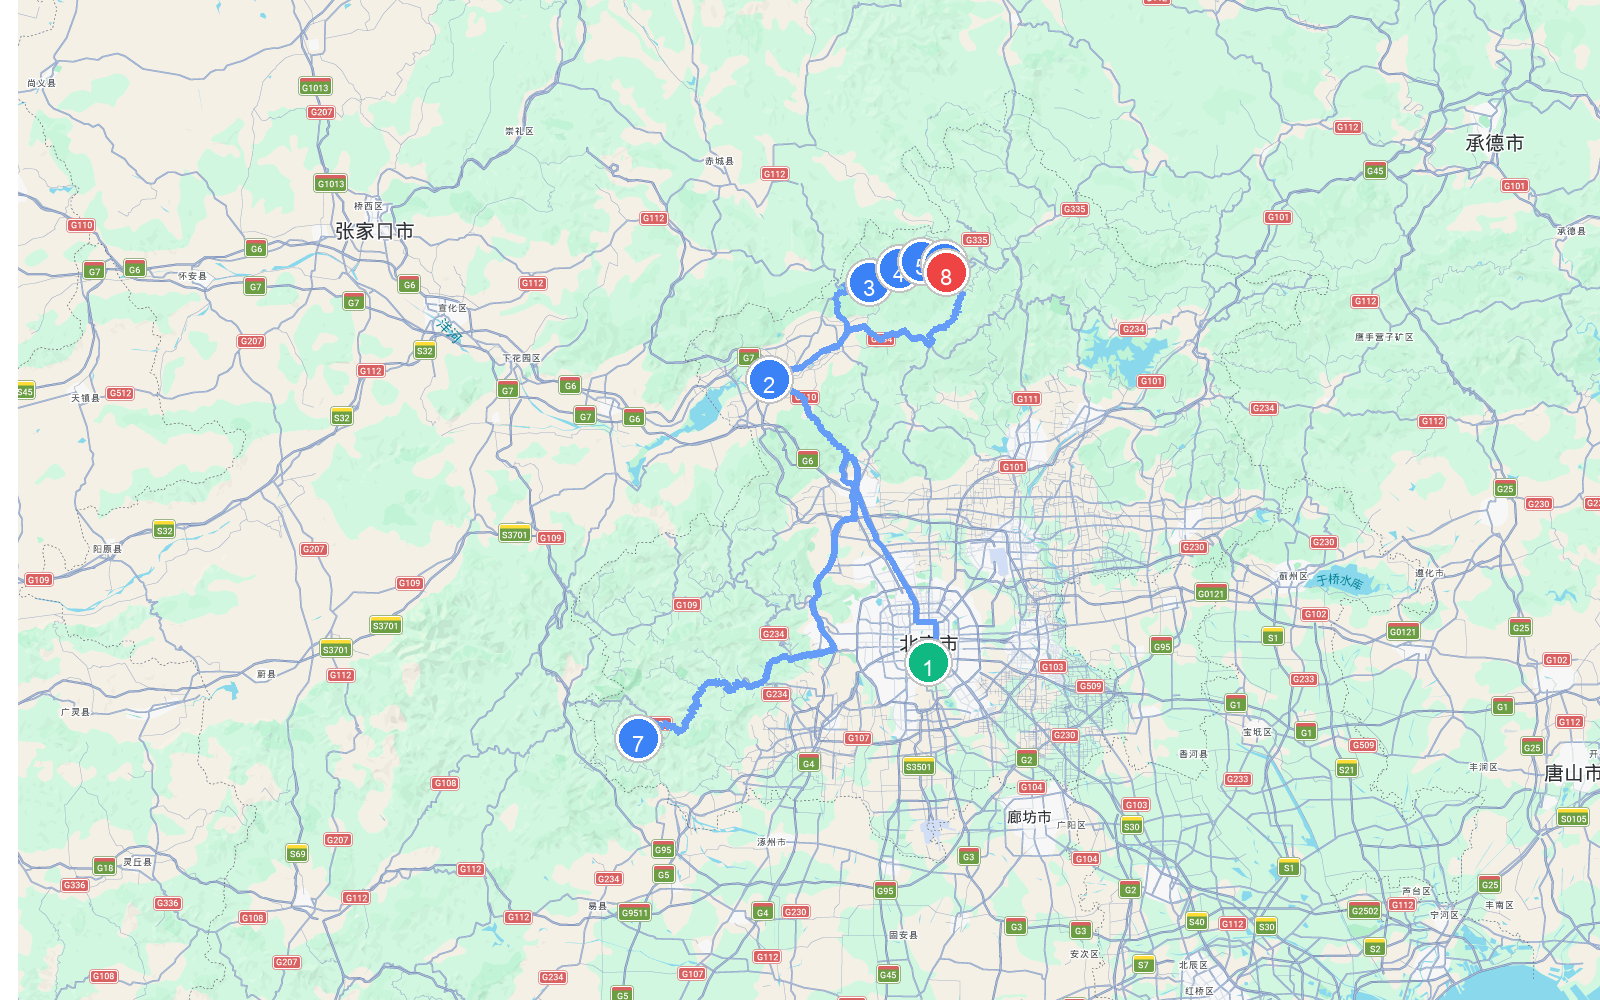
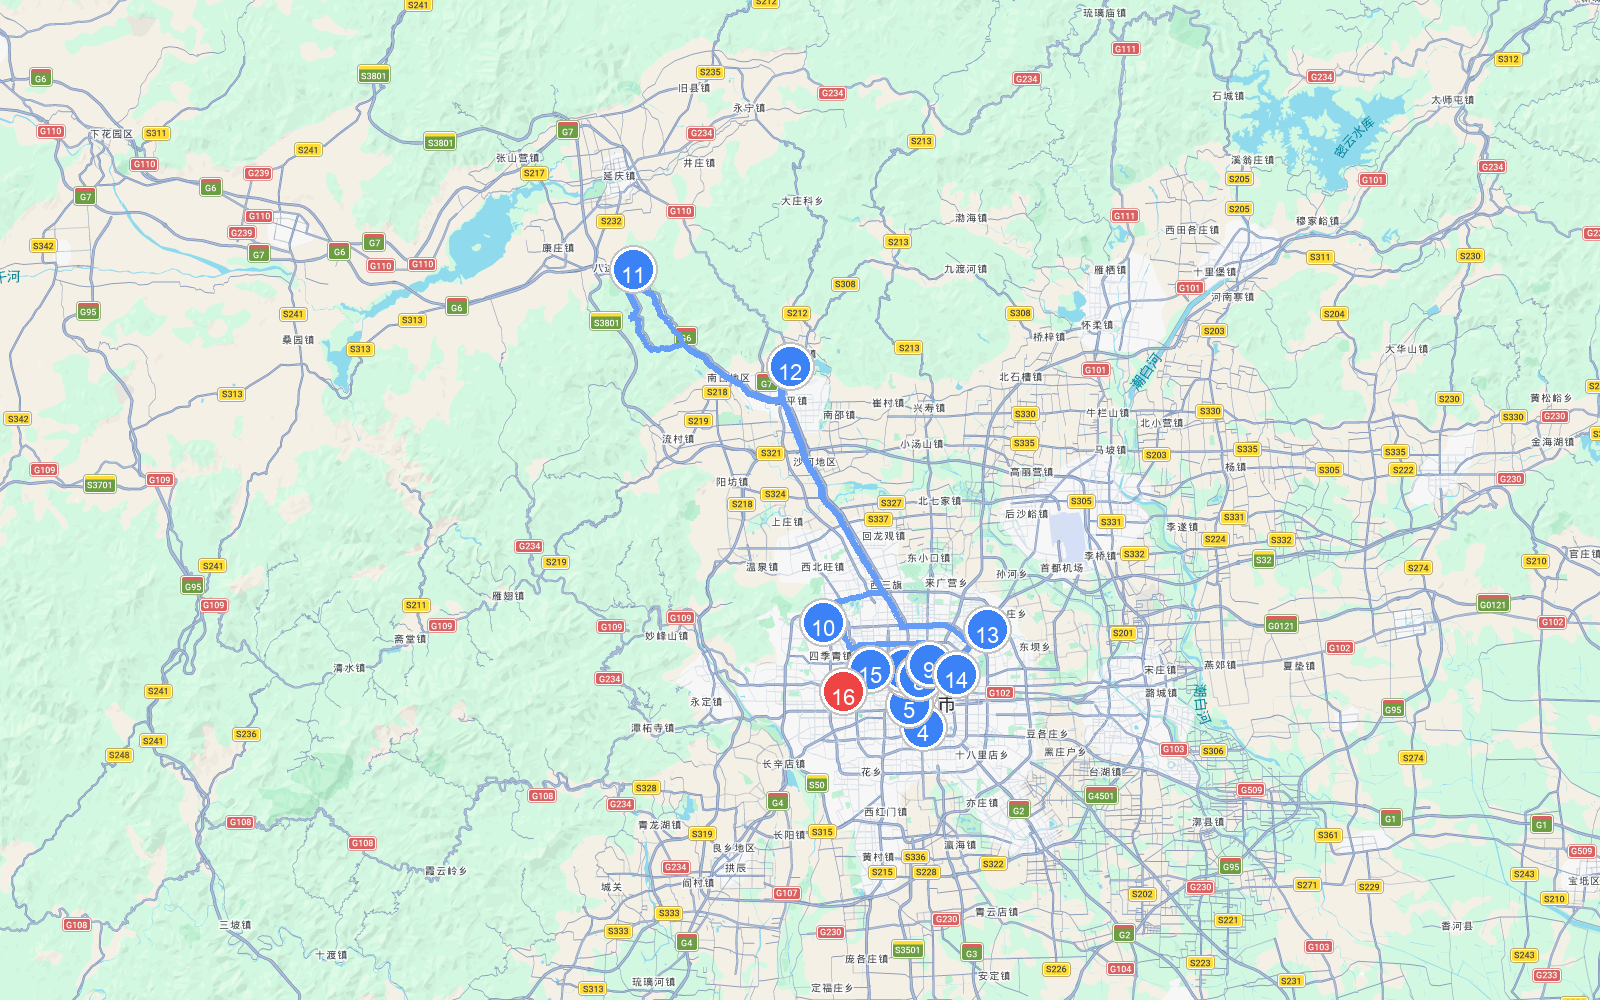
docs(beijing): standardize and generate maps/tables for Beijing 5d4n and deep itineraries

diff --git a/docs/01_北京市.md b/docs/01_北京市.md
@@ -7,20 +7,58 @@
 
 #### 北京5天4夜游路线
 
-* **预算**：人均花费1300元左右。  
-* **路线**：  
-* **特点**：这是一条专为初次游玩京城的旅客规划的经典打卡路线。您将亲历庄严的天安门广场升旗仪式，参观世界规模最大、保存最完好的木结构宫殿故宫博物院；漫步于历史悠久的什刹海和极具老北京胡同风情的南锣鼓巷，享受市井慢生活；登临八达岭长城眺望群山，并在清华/北大校门口拍照留念，最后游览天坛祈年殿与颐和园皇家园林，堪称世纪经典的京城首选之旅。
+* **自驾线路**：天安门广场 → 故宫博物院 → 南锣鼓巷 → 雍和宫 → 天坛公园 → 颐和园 → 八达岭长城 → 明十三陵 → 国家体育场 → 三里屯太古里
+* **路线路段距离与地图**
+  | 起点 | 终点 | 距离 |
+  | :--- | :--- | :--- |
+  | (1) 天安门广场 | (2) 故宫博物院 | 4.3 公里 |
+  | (2) 故宫博物院 | (3) 南锣鼓巷 | 3.0 公里 |
+  | (3) 南锣鼓巷 | (4) 雍和宫 | 4.3 公里 |
+  | (4) 雍和宫 | (5) 天坛公园 | 10.7 公里 |
+  | (5) 天坛公园 | (6) 颐和园 | 28.2 公里 |
+  | (6) 颐和园 | (7) 八达岭长城 | 68.4 公里 |
+  | (7) 八达岭长城 | (8) 明十三陵 | 39.4 公里 |
+  | (8) 明十三陵 | (9) 国家体育场 | 36.0 公里 |
+  | (9) 国家体育场 | (10) 三里屯太古里 | 12.5 公里 |
+  | **总里程** | | **206.8 公里** |
+  
+  ![路线地图](images/maps/01_北京市_01.png)
+  
+* **路线规划**：
   * Day1：天安门→毛主席纪念堂→故宫→什刹海→南锣鼓巷；  
   * Day2：孔庙国子监→雍和宫→簋街→天坛；  
   * Day3：清华/北京大学→颐和园→圆明园(夏)/香山公园(秋)；  
   * Day4：八达岭长城→明十三陵→鸟巢→水立方；  
-  * Day5：国家大剧院→中国国家博物馆→三里屯太古里。  
+  * Day5：国家大剧院→中国国家博物馆→三里屯太古里。
+* **预算**：人均花费1300元左右。  
+* **特点**：这是一条专为初次游玩京城的旅客规划的经典打卡路线。您将亲历庄严的天安门广场升旗仪式，参观世界规模最大、保存最完好的木结构宫殿故宫博物院；漫步于历史悠久的什刹海和极具老北京胡同风情的南锣鼓巷，享受市井慢生活；登临八达岭长城眺望群山，并在清华/北大校门口拍照留念，最后游览天坛祈年殿与颐和园皇家园林，堪称世纪经典的京城首选之旅。
 
 #### 北京深度游最佳路线
 
-* **预算**：人均花费2500元左右。  
-* **路线**：  
-* **特点**：这是一条专为时间充裕的游客设计的10天深度文化自驾探索之旅。从故宫、天坛、颐和园等世界文化遗产的皇家风貌，到北海公园、恭王府、什刹海老胡同的市井风情；既能体验鸟巢、水立方与中央电视塔的现代都市繁华，又能领略798艺术区和三里屯的创意前沿与时尚风暴，最后自驾游览京郊八达岭长城与明十三陵，多视角探寻这座千年古都的灵魂。
+* **自驾线路**：天安门广场 → 故宫博物院 → 景山公园 → 天坛公园 → 国家大剧院 → 恭王府 → 后海 → 南锣鼓巷 → 雍和宫 → 颐和园 → 八达岭长城 → 明十三陵 → 798艺术区 → 三里屯太古里 → 北京动物园 → 中央广播电视塔
+* **路线路段距离与地图**
+  | 起点 | 终点 | 距离 |
+  | :--- | :--- | :--- |
+  | (1) 天安门广场 | (2) 故宫博物院 | 4.3 公里 |
+  | (2) 故宫博物院 | (3) 景山公园 | 2.5 公里 |
+  | (3) 景山公园 | (4) 天坛公园 | 8.0 公里 |
+  | (4) 天坛公园 | (5) 国家大剧院 | 4.9 公里 |
+  | (5) 国家大剧院 | (6) 恭王府 | 5.2 公里 |
+  | (6) 恭王府 | (7) 后海 | 2.4 公里 |
+  | (7) 后海 | (8) 南锣鼓巷 | 4.2 公里 |
+  | (8) 南锣鼓巷 | (9) 雍和宫 | 3.9 公里 |
+  | (9) 雍和宫 | (10) 颐和园 | 21.6 公里 |
+  | (10) 颐和园 | (11) 八达岭长城 | 68.4 公里 |
+  | (11) 八达岭长城 | (12) 明十三陵 | 39.4 公里 |
+  | (12) 明十三陵 | (13) 798艺术区 | 47.5 公里 |
+  | (13) 798艺术区 | (14) 三里屯太古里 | 8.3 公里 |
+  | (14) 三里屯太古里 | (15) 北京动物园 | 14.2 公里 |
+  | (15) 北京动物园 | (16) 中央广播电视塔 | 7.9 公里 |
+  | **总里程** | | **242.7 公里** |
+  
+  ![路线地图](images/maps/01_北京市_02.png)
+  
+* **路线规划**：
   * Day1：天安门→毛主席纪念堂→人民大会堂→故宫→景山公园→王府井；  
   * Day2：天坛→中国国家博物馆→国家大剧院；  
   * Day3：北海公园→恭王府→后海；  
@@ -31,6 +69,8 @@
   * Day8：八达岭长城→明十三陵；  
   * Day9：北京798→三里屯；  
   * Day10：北京动物园→玉渊潭公园→中央电视塔。
+* **预算**：人均花费2500元左右。  
+* **特点**：这是一条专为时间充裕的游客设计的10天深度文化自驾探索之旅。从故宫、天坛、颐和园等世界文化遗产的皇家风貌，到北海公园、恭王府、什刹海老胡同的市井风情；既能体验鸟巢、水立方与中央电视塔的现代都市繁华，又能领略798艺术区和三里屯的创意前沿与时尚风暴，最后自驾游览京郊八达岭长城与明十三陵，多视角探寻这座千年古都的灵魂。
 
 ## **北京经典自驾线路推荐**
 
@@ -49,7 +89,9 @@
   | (7) 颐和园 | (8) 圆明园遗址公园 | 9.8 公里 |
   | **总里程** | | **59.0 公里** |
   
-  ![路线地图](images/maps/01_北京市_01.png)
+  ![路线地图](images/maps/01_北京市_03.png)
+  
+  
   
   
   
@@ -76,7 +118,9 @@
   | (7) 龙王庙 | (8) 滴水壶景区 | 251.9 公里 |
   | **总里程** | | **685.5 公里** |
   
-  ![路线地图](images/maps/01_北京市_02.png)
+  ![路线地图](images/maps/01_北京市_04.png)
+  
+  
   
   
   
@@ -103,7 +147,9 @@
   | (7) 古北水镇 | (8) 司马台长城 | 15.6 公里 |
   | **总里程** | | **294.6 公里** |
   
-  ![路线地图](images/maps/01_北京市_03.png)
+  ![路线地图](images/maps/01_北京市_05.png)
+  
+  
   
   
   